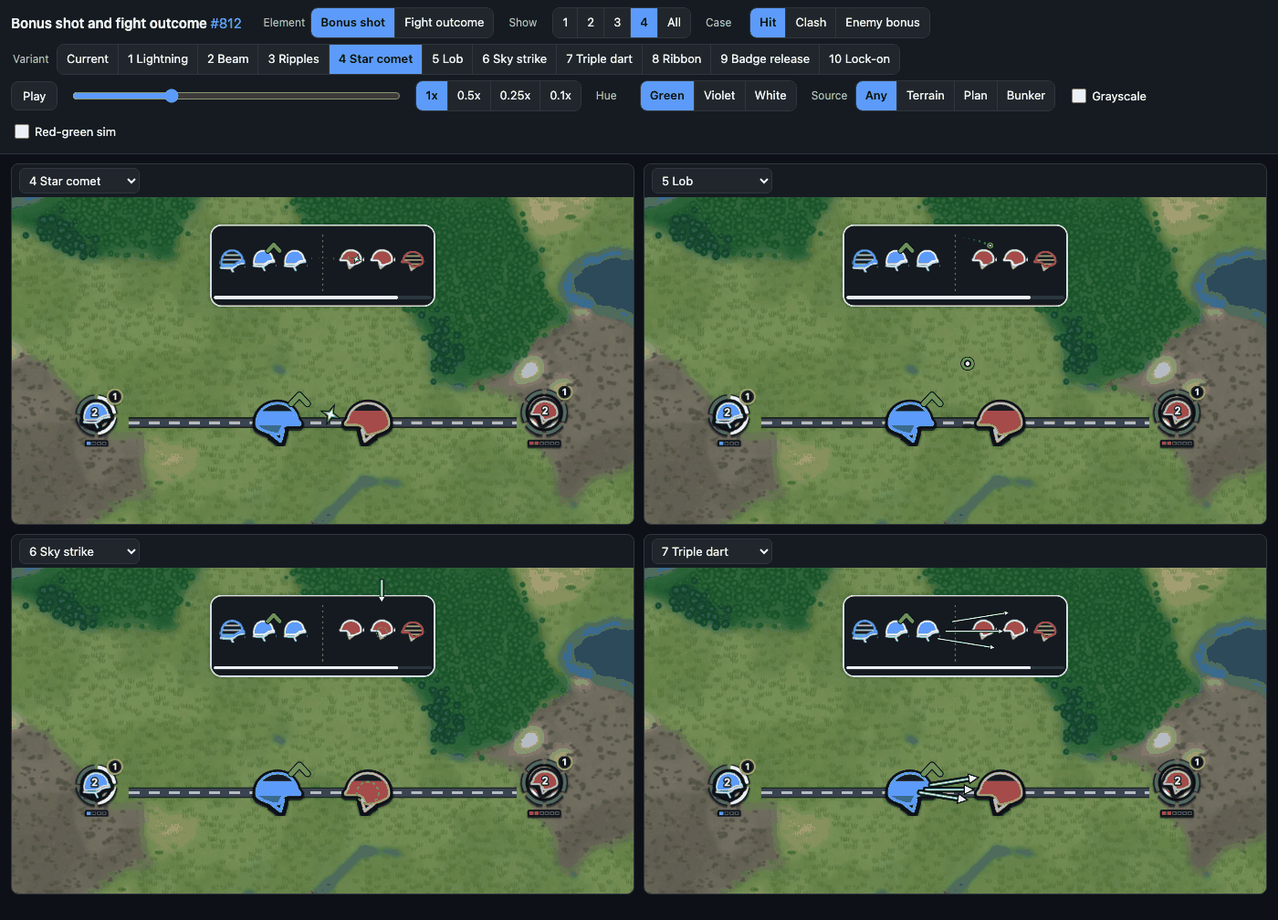
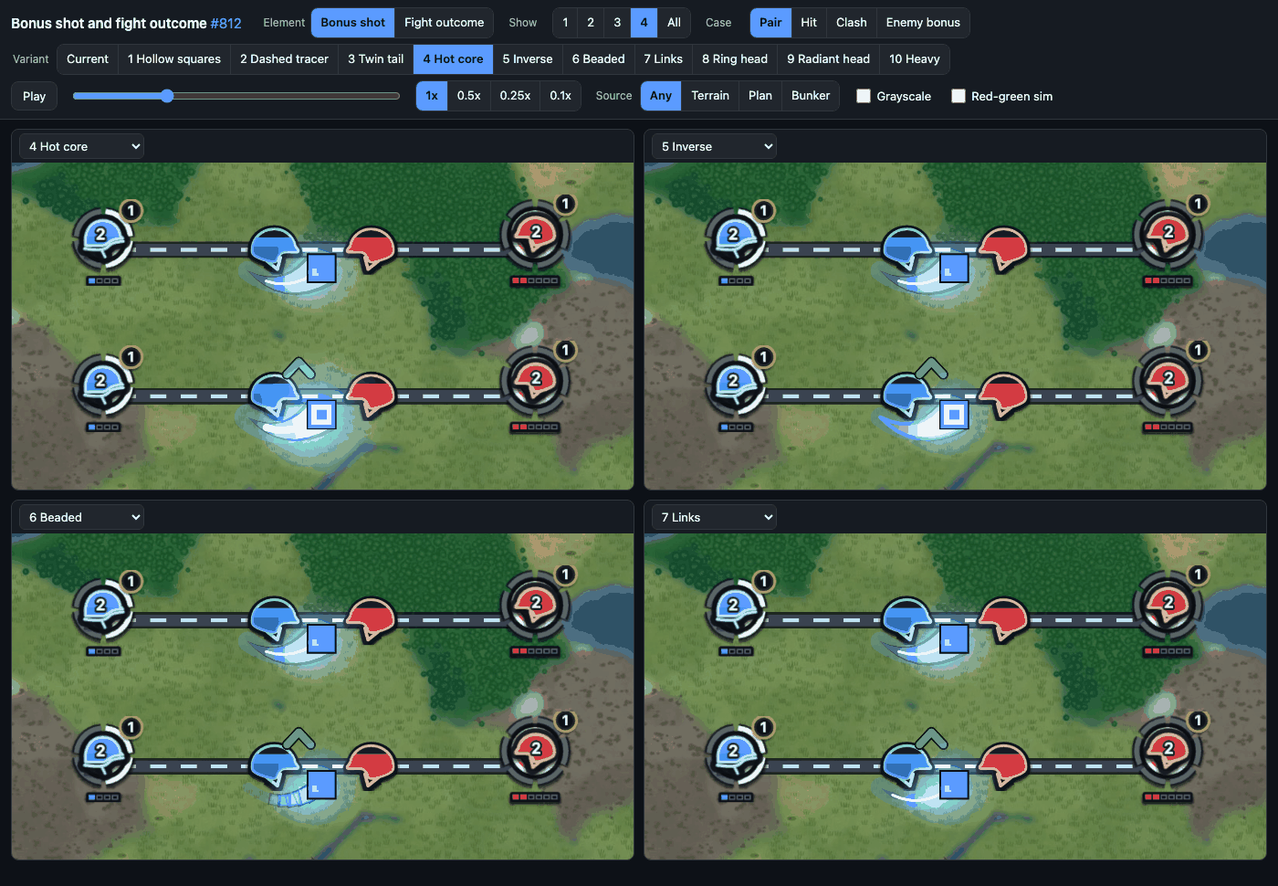
docs(docs): bonus shot round 2, tracer family variants, no arena animation (#812)

diff --git a/docs/design/mockups/fight-bonus-and-outcome.html b/docs/design/mockups/fight-bonus-and-outcome.html
@@ -62,7 +62,6 @@ canvas{display:block;width:100%;height:auto;background:#000}
     <button id="play" aria-pressed="true">Pause</button>
     <input type="range" id="scrub" min="0" max="1000" value="0" aria-label="Time">
     <div class="seg" id="spd"></div>
-    <fieldset id="f-hue"><legend>Hue</legend><div class="seg" id="hue"></div></fieldset>
     <fieldset id="f-src"><legend>Source</legend><div class="seg" id="src"></div></fieldset>
     <label class="tog"><input type="checkbox" id="gray">Grayscale</label>
     <label class="tog"><input type="checkbox" id="rg">Red-green sim</label>
@@ -125,150 +124,178 @@ function chips(c,y,state,{pop=null}={}){for(const side of ['own','enemy'])state[
 const BGCACHE={};
 function drawBg(c,name){const im=IMG[name];c.drawImage(im,0,40,W,H,0,0,W,H);c.fillStyle='rgba(13,17,23,.18)';c.fillRect(0,0,W,H);}
 function popText(c,s,x,y,th,col){if(th<0||th>1000)return;const k=th/1000;text(c,s,x,y-8-k*14,18,col,1-seg(k,.55,1));}
-function nodeFigure(c,side,x,y,k=1,a=1){return spr(c,side==='own'?'helmetOwn':'helmetEnemy',x,y,k*.78,a);}
+function nodeFigure(c,side,x,y,k=1,a=1,base=.78){return spr(c,side==='own'?'helmetOwn':'helmetEnemy',x,y,k*base,a);}
 
 /* ============================================================
-   ELEMENT 1: the bonus shot
+   ELEMENT 1: the bonus shot (round 2, map only: the arena has no bonus animation)
+   Everything below follows the client: render/shotLayout.ts (path, tail, timing), render/shotView.ts (tail, glow,
+   head, sparks, afterglow), render/fightImpact.ts (wind-up, hit burst). 1 world unit = U logical px.
    ============================================================ */
-const T={fire:700,flight:550,hit:1250,loop:3600};
-const HUES={green:UP,violet:'#b58cff',white:'#f0f6fc'};
+const U=1.8,KK=1.18,ROUND=2000,AT=.3,AFTER=.25;
+const T={fire:700,hit:700+AT*ROUND,loop:3600};
 const SIDE_COL={own:YOU,enemy:ENEMY};
-/* current look, reimplemented from render/shotView.ts (ui-style 9.9): a real shot is a curved tapering tail with a square head */
-function ordinary(c,P,o={}){
-  const col=o.col||SIDE_COL[P.side],S=P.S,dx=P.bx-P.ax,dy=P.by-P.ay,L=Math.hypot(dx,dy)||1,ux=dx/L,uy=dy/L;
-  const a=[P.ax-ux*24*S,P.ay-uy*24*S],b=[P.bx,P.by],bend=(o.bend??16)*S,f=P.f;if(f<=0)return;
-  const n=8,t0=Math.max(0,f-.55);
-  for(let i=0;i<n;i++){const p0=bez(a,b,bend,lerp(t0,f,i/n)),p1=bez(a,b,bend,lerp(t0,f,(i+1)/n)),al=(i+1)/n;line(c,[p0,p1],(5+9*al)*S,BG,al*.9,'butt');}
-  for(let i=0;i<n;i++){const p0=bez(a,b,bend,lerp(t0,f,i/n)),p1=bez(a,b,bend,lerp(t0,f,(i+1)/n)),al=(i+1)/n;line(c,[p0,p1],(2.4+5*al)*S,col,al*.85,'butt');line(c,[p0,p1],2*S,PAPER,al*.8,'butt');}
-  const h=bez(a,b,bend,f),h2=bez(a,b,bend,Math.max(0,f-.03));const ang=Math.atan2(h[1]-h2[1],h[0]-h2[0]);
-  c.save();c.translate(h[0],h[1]);c.rotate(ang);c.fillStyle=col;c.strokeStyle=BG;c.lineWidth=3*S;c.beginPath();c.rect(-5.5*S,-5.5*S,11*S,11*S);c.stroke();c.fill();c.fillStyle=PAPER;c.fillRect(-2*S,-2*S,4*S,4*S);c.restore();
-  if(f<1)for(let i=0;i<3;i++){const q=bez(a,b,bend,Math.max(0,f-.07*(i+1)));fillC(c,q[0]+(rnd(i+P.seed)-.5)*8*S,q[1]+(rnd(i+9+P.seed)-.5)*8*S,1.8*S,PAPER,.8-i*.2);}
+const hex=h=>[(h>>16)&255,(h>>8)&255,h&255];
+const HX={own:0x5b9bff,enemy:0xe5484d};
+function mixw(h,a){const[r,g,b]=hex(h);return[Math.round(r+(255-r)*a),Math.round(g+(255-g)*a),Math.round(b+(255-b)*a)];}
+const rgba=(rgb,a)=>`rgba(${rgb[0]},${rgb[1]},${rgb[2]},${a})`;
+const sideRgb=s=>hex(HX[s]);
+const pt=(x,y)=>({x,y});
+const add=(p,d,k)=>pt(p.x+d.x*k,p.y+d.y*k);
+function mkShot(from,to,side,{bonus=false,cancel=false}={}){
+  const gap=Math.hypot(to.x-from.x,to.y-from.y)||1,dir=pt((to.x-from.x)/gap,(to.y-from.y)/gap);
+  const reach=Math.min(14*U,.3*gap),a=add(from,dir,reach);
+  const b=cancel?pt((from.x+to.x)/2,(from.y+to.y)/2):add(to,dir,-(reach+1*U));
+  const chord=Math.hypot(b.x-a.x,b.y-a.y),extra=Math.max(0,46*KK*U-chord),p0=add(a,dir,-extra),length=chord+extra;
+  const normal=pt(-dir.y,dir.x),sag=Math.max(.3*length,7*U),mid=pt((p0.x+b.x)/2,(p0.y+b.y)/2),ctrl=add(mid,normal,2*sag);
+  return{side,bonus,cancel,a,b,p0,ctrl,dir,normal,length,start:length>0?extra/length:0,at:cancel?.15:AT,from,to};
 }
-function ordinaryHit(c,P){const th=P.th;if(th<0||th>900)return;const k=th/900,S=P.S,col=SIDE_COL[P.side==='own'?'enemy':'own'];
-  ringC(c,P.bx,P.by,lerp(6,24,ease(k))*S,3*S,PAPER,1-k);for(let i=0;i<5;i++){const an=-P.dir+(i-2)*.5,d=lerp(4,22,k)*S;c.save();c.globalAlpha=1-k;c.fillStyle=PAPER;c.fillRect(P.bx+Math.cos(an)*d-2*S,P.by+Math.sin(an)*d-2*S,4*S,4*S);c.restore();}}
-function cancelFx(c,P){const th=P.th;if(th<0||th>800)return;const k=th/800,S=P.S;ringC(c,P.bx,P.by,lerp(4,22,ease(k))*S,3*S,PAPER,1-k);line(c,[[P.bx-7*S,P.by-7*S],[P.bx+7*S,P.by+7*S]],3*S,PAPER,1-k);line(c,[[P.bx+7*S,P.by-7*S],[P.bx-7*S,P.by+7*S]],3*S,PAPER,1-k);
-  for(let i=0;i<6;i++){const an=i*TAU/6+.3,d=lerp(8,26,k)*S;line(c,[[P.bx+Math.cos(an)*d*.6,P.by+Math.sin(an)*d*.6],[P.bx+Math.cos(an)*d,P.by+Math.sin(an)*d]],2*S,i%2?YOU:ENEMY,1-k);}}
-function ringHit(c,P,{max=26,dash=false,w=3,col=null,n=0}={}){const th=P.th;if(th<0||th>900)return;const k=th/900,S=P.S,cc=col||P.col;
-  c.save();if(dash)c.setLineDash([5*S,4*S]);ringC(c,P.bx,P.by,lerp(6,max,ease(k))*S,(w+2)*S,BG,(1-k)*.9);ringC(c,P.bx,P.by,lerp(6,max,ease(k))*S,w*S,cc,1-k);c.restore();
-  for(let i=0;i<n;i++){const an=i*TAU/n+.4,d=lerp(5,max*.9,k)*S;star4(c,P.bx+Math.cos(an)*d,P.by+Math.sin(an)*d,3.4*S,an,cc,1-k);}
-  if(th<160)fillC(c,P.bx,P.by,lerp(16,6,th/160)*S,PAPER,.8*(1-th/160));}
-function pathPts(P,n=12,bend=0,f=1,from=0){const a=[P.ax,P.ay],b=[P.bx,P.by],o=[];for(let i=0;i<=n;i++)o.push(bez(a,b,bend,lerp(from,f,i/n)));return o;}
-const V=[];
-V.push({id:'cur',name:'Current',draw(c,P){ // the green chevron is the projectile (what the owner wants gone)
-  const S=P.S,a=[P.ax-P.ux*20*S,P.ay-P.uy*20*S],b=[P.bx,P.by],f=P.f;if(f<=0)return;
-  const tail=[];for(let i=0;i<=6;i++)tail.push(bez(a,b,12*S,Math.max(0,f-.5)+(f-Math.max(0,f-.5))*i/6));
-  line(c,tail.map(p=>[p[0],p[1]-2*S]),1.6*S,SIDE_COL[P.side],.6);line(c,tail.map(p=>[p[0],p[1]+2*S]),1.6*S,SIDE_COL[P.side],.6);
-  for(let i=3;i>=1;i--){const q=bez(a,b,12*S,Math.max(0,f-.07*i));chevron(c,q[0],q[1],(15-i*2.4)*S,{a:.75-i*.15});}
-  const h=bez(a,b,12*S,f);chevron(c,h[0],h[1],17*S);},
-  hit(c,P){ringHit(c,P,{dash:true,col:UP,n:5,max:24});}});
-V.push({id:'bolt',name:'Lightning',draw(c,P){
-  const f=P.f;if(f<=0)return;const S=P.S,end=Math.min(1,f*1.5),k=Math.floor(P.tf/70),pts=[[P.ax,P.ay]];const N=7;
-  for(let i=1;i<=N;i++){const t=end*i/N,p=bez([P.ax,P.ay],[P.bx,P.by],0,t),off=i===N?0:(rnd(k*13+i)-.5)*30*S;pts.push([p[0]-P.uy*off,p[1]+P.ux*off]);}
-  const a=P.th>0?1-seg(P.th,0,300):1;line(c,pts,16*S,P.col,.16*a);glow(c,pts,S,P.col,PAPER,5.4*S);c.save();c.globalAlpha*=a;c.restore();},
-  hit(c,P){ringHit(c,P,{max:20,n:6,w:2.6});}});
-V.push({id:'beam',name:'Beam',draw(c,P){
-  const f=P.f;if(f<=0)return;const S=P.S,ramp=seg(f,0,.3),fade=P.th>0?1-seg(P.th,0,350):1,w=lerp(1.5,9,ease(ramp))*S*(fade);if(fade<=0)return;
-  const e=[P.ax+(P.bx-P.ax)*Math.min(1,f*2.2),P.ay+(P.by-P.ay)*Math.min(1,f*2.2)];
-  glow(c,[[P.ax,P.ay],e],S,P.col,PAPER,w);fillC(c,P.ax,P.ay,w*.9+2,PAPER,fade);},
-  hit(c,P){ringHit(c,P,{max:24,w:3});}});
-V.push({id:'ripple',name:'Ripples',draw(c,P){
-  const S=P.S;for(let k=0;k<3;k++){const p=P.f*1.25-k*.2;if(p<=0||p>=1.02)continue;const x=lerp(P.ax,P.bx,Math.min(1,p)),y=lerp(P.ay,P.by,Math.min(1,p)),r=(9+k*3+p*8)*S,ang=Math.atan2(P.uy,P.ux),al=1-seg(p,.7,1.02);
-    for(const [w,cc] of [[7*S,BG],[3.6*S,P.col]]){c.save();c.globalAlpha=al;c.strokeStyle=cc;c.lineWidth=w;c.lineCap='round';c.beginPath();c.arc(x-P.ux*r*.55,y-P.uy*r*.55,r,ang-1,ang+1);c.stroke();c.restore();}}},
-  hit(c,P){ringHit(c,P,{max:30,w:2.4});if(P.th>120)ringHit(c,{...P,th:P.th-120},{max:22,w:2});}});
-V.push({id:'star',name:'Star comet',draw(c,P){
-  const S=P.S,f=P.f;if(f<=0)return;const a=[P.ax-P.ux*16*S,P.ay-P.uy*16*S],b=[P.bx,P.by];
-  for(let i=6;i>=1;i--){const t=Math.max(0,f-i*.06),q=bez(a,b,-14*S,t);star4(c,q[0],q[1],(7-i*.8)*S,P.tf/200+i,P.col,.85-i*.11*(1+(Math.floor(P.tf/90+i)%2)*.3));}
-  const h=bez(a,b,-14*S,f);star4(c,h[0],h[1],15*S,P.tf/180,BG,1,.36);star4(c,h[0],h[1],11*S,P.tf/180,P.col,1,.34);star4(c,h[0],h[1],6*S,P.tf/180,PAPER,1,.4);},
-  hit(c,P){ringHit(c,P,{max:26,n:8,w:2.2});}});
-V.push({id:'lob',name:'Lob',draw(c,P){
-  const S=P.S,f=P.f;if(f<=0)return;const L=Math.hypot(P.bx-P.ax,P.by-P.ay),Hh=S<1?.2*L:.55*L+14*S;
-  const gx=lerp(P.ax,P.bx,f),gy=lerp(P.ay,P.by,f),h=4*Hh*f*(1-f);
-  c.save();c.globalAlpha=.4;c.fillStyle='#000';c.beginPath();c.ellipse(gx,gy+8*S,(9-h*.03)*S,(3.4)*S,0,0,TAU);c.fill();c.restore();
-  for(let i=1;i<=5;i++){const ff=Math.max(0,f-i*.045),hh=4*Hh*ff*(1-ff);fillC(c,lerp(P.ax,P.bx,ff),lerp(P.ay,P.by,ff)-hh,(3.4-i*.4)*S,P.col,.7-i*.1);}
-  const x=gx,y=gy-h;fillC(c,x,y,9*S,BG);ringC(c,x,y,6.4*S,3.2*S,P.col);fillC(c,x,y,2.6*S,PAPER);},
-  hit(c,P){const th=P.th;if(th<0||th>900)return;const k=th/900,S=P.S;c.save();c.globalAlpha=1-k;c.strokeStyle=BG;c.lineWidth=5*S;c.beginPath();c.ellipse(P.bx,P.by+8*S,lerp(6,34,ease(k))*S,lerp(2,11,ease(k))*S,0,0,TAU);c.stroke();c.strokeStyle=P.col;c.lineWidth=2.6*S;c.stroke();c.restore();ringHit(c,{...P,by:P.by},{max:14,w:2,n:4});}});
-V.push({id:'sky',name:'Sky strike',draw(c,P){
-  const S=P.S,f=P.f,tele=ease(seg(f,0,.6));if(f<=0)return;
-  c.save();c.setLineDash([4*S,4*S]);ringC(c,P.bx,P.by+4*S,lerp(26,14,tele)*S,2.4*S,P.col,.5+.5*tele);c.restore();
-  if(f>.55){const k=seg(f,.55,1),y=lerp(P.by-(S<1?60:170)*S*(S<1?2:1),P.by,k*k);line(c,[[P.bx,y-46*S],[P.bx,y]],7*S+5*S,BG,.9);line(c,[[P.bx,y-46*S],[P.bx,y]],7*S,P.col);line(c,[[P.bx,y-46*S],[P.bx,y]],2.6*S,PAPER);
-    c.save();c.beginPath();c.moveTo(P.bx-7*S,y-4*S);c.lineTo(P.bx,y+8*S);c.lineTo(P.bx+7*S,y-4*S);c.closePath();c.fillStyle=PAPER;c.strokeStyle=BG;c.lineWidth=3*S;c.stroke();c.fill();c.restore();}},
-  hit(c,P){const th=P.th;if(th<0||th>600)return;const k=th/600,S=P.S;const w=lerp(14,2,k)*S,top=P.by-(S<1?60:200)*S*(S<1?2:1);line(c,[[P.bx,top],[P.bx,P.by]],w+4*S,BG,(1-k)*.8,'butt');line(c,[[P.bx,top],[P.bx,P.by]],w,P.col,1-k,'butt');line(c,[[P.bx,top],[P.bx,P.by]],w*.4,PAPER,1-k,'butt');ringHit(c,P,{max:26,w:3});}});
-V.push({id:'darts',name:'Triple dart',draw(c,P){
-  const S=P.S;for(let k=-1;k<=1;k++){const f=clamp(P.f*1.2-(k+1)*.06);if(f<=0)continue;const ang=Math.atan2(P.uy,P.ux)+k*.16,L=Math.hypot(P.bx-P.ax,P.by-P.ay)*1.02,x0=P.ax-P.ux*10*S,y0=P.ay-P.uy*10*S;
-    const hx=x0+Math.cos(ang)*L*f,hy=y0+Math.sin(ang)*L*f,tx=x0+Math.cos(ang)*L*Math.max(0,f-.45),ty=y0+Math.sin(ang)*L*Math.max(0,f-.45);
-    glow(c,[[tx,ty],[hx,hy]],S,P.col,PAPER,3*S);c.save();c.translate(hx,hy);c.rotate(ang);c.beginPath();c.moveTo(7*S,0);c.lineTo(-3*S,-5*S);c.lineTo(-3*S,5*S);c.closePath();c.fillStyle=PAPER;c.strokeStyle=BG;c.lineWidth=3*S;c.stroke();c.fill();c.restore();}},
-  hit(c,P){ringHit(c,P,{max:20,n:3,w:2.2});}});
-V.push({id:'ribbon',name:'Ribbon',draw(c,P){
-  const S=P.S,f=P.f;if(f<=0)return;const fade=P.th>0?1-seg(P.th,0,350):1;const a=[P.ax-P.ux*10*S,P.ay-P.uy*10*S],f0=Math.max(0,f*1.05-.55);
-  const pts=[[lerp(a[0],P.bx,f0),lerp(a[1],P.by,f0)],[lerp(a[0],P.bx,Math.min(1,f)),lerp(a[1],P.by,Math.min(1,f))]];
-  line(c,pts,15*S+5,BG,.92*fade,'butt');line(c,pts,15*S,P.col,fade,'butt');c.save();c.setLineDash([5*S,6*S]);c.lineDashOffset=-P.tf/22;line(c,pts,5*S,PAPER,fade,'butt');c.restore();},
-  hit(c,P){ringHit(c,P,{max:24,w:4});}});
-V.push({id:'release',name:'Badge release',cue:true,draw(c,P){ordinary(c,P,{col:P.col,bend:10});},
-  hit(c,P){ringHit(c,P,{max:26,w:3,n:0});}});
-V.push({id:'lock',name:'Lock-on',draw(c,P){
-  const S=P.S,f=P.f;if(f<=0)return;const k=ease(seg(f,0,.75)),r=lerp(36,15,k)*S,rot=(1-k)*.9,flash=P.f>.78;
-  for(const [w,cc] of [[5.4*S,BG],[2.6*S,flash?PAPER:P.col]])for(let i=0;i<4;i++){const an=rot+i*Math.PI/2+Math.PI/4;c.save();c.strokeStyle=cc;c.lineWidth=w;c.lineCap='round';c.lineJoin='round';c.beginPath();const cx=P.bx+Math.cos(an)*r,cy=P.by+Math.sin(an)*r;c.moveTo(cx-Math.cos(an+Math.PI/2)*7*S,cy-Math.sin(an+Math.PI/2)*7*S);c.lineTo(cx,cy);c.lineTo(cx+Math.cos(an+Math.PI/2)*7*S,cy+Math.sin(an+Math.PI/2)*7*S);c.stroke();c.restore();}
-  if(flash&&P.th<0)glow(c,[[P.ax,P.ay],[P.bx,P.by]],S,P.col,PAPER,2.6*S);},
-  hit(c,P){ringHit(c,P,{max:26,w:3,n:4});}});
+function arcAt(s,t){const w=1-t;return pt(w*w*s.p0.x+2*w*t*s.ctrl.x+t*t*s.b.x,w*w*s.p0.y+2*w*t*s.ctrl.y+t*t*s.b.y);}
+function arcTan(s,t){const dx=2*(1-t)*(s.ctrl.x-s.p0.x)+2*t*(s.b.x-s.ctrl.x),dy=2*(1-t)*(s.ctrl.y-s.p0.y)+2*t*(s.b.y-s.ctrl.y),l=Math.hypot(dx,dy)||1;return pt(dx/l,dy/l);}
+function phaseOf(s,age){if(age<0)return null;const sh=age/ROUND;if(sh<s.at){const fl=sh/s.at;return{kind:'flight',flown:fl,s:s.start+(1-s.start)*fl};}const fd=(sh-s.at)/AFTER;return fd<1?{kind:'fade',fade:fd}:null;}
+function tailGeom(s,t,{pad=0,share=.55,widthK=1}={}){const from=Math.max(0,t-share*KK),axis=[],left=[],right=[],nor=[];
+  for(let j=0;j<=8;j++){const at=from+(t-from)*j/8,p=arcAt(s,at),tg=arcTan(s,at),half=((13*KK*widthK+pad)*U*(j/8))/2;axis.push(p);nor.push(pt(-tg.y,tg.x));left.push(pt(p.x-tg.y*half,p.y+tg.x*half));right.push(pt(p.x+tg.y*half,p.y-tg.x*half));}
+  return{axis,left,right,nor};}
+function polyPath(c,pts){c.beginPath();pts.forEach((p,i)=>i?c.lineTo(p.x,p.y):c.moveTo(p.x,p.y));}
+function strokePts(c,pts,w,style,a=1,cap='round'){c.save();c.globalAlpha*=a;c.lineCap=cap;c.lineJoin='round';c.strokeStyle=style;c.lineWidth=w;polyPath(c,pts);c.stroke();c.restore();}
+function glowSpot(c,x,y,d,rgb,a){if(a<=0)return;c.save();c.globalCompositeOperation='lighter';const g=c.createRadialGradient(x,y,0,x,y,d/2);g.addColorStop(0,rgba(rgb,a));g.addColorStop(1,rgba(rgb,0));c.fillStyle=g;c.beginPath();c.arc(x,y,d/2,0,TAU);c.fill();c.restore();}
+function sq(c,x,y,side,ang,fill,{outline=BG,ow=3.2,a=1}={}){c.save();c.globalAlpha*=a;c.translate(x,y);c.rotate(ang);c.beginPath();c.rect(-side/2,-side/2,side,side);if(outline){c.lineJoin='miter';c.strokeStyle=outline;c.lineWidth=ow;c.stroke();}if(fill){c.fillStyle=fill;c.fill();}c.restore();}
+function fillPoly(c,pts,style,a=1){c.save();c.globalAlpha*=a;c.fillStyle=style;polyPath(c,pts);c.closePath();c.fill();c.restore();}
 
-/* wind-up of the current game: a ring contracts on the shooter; the badge is the bonus link in every variant */
-function windup(c,P,v){const tw=P.t-(T.fire-380);if(tw<0||tw>380)return;const k=tw/380;ringC(c,P.ax,P.ay,lerp(46,24,ease(k))*P.S,2.4*P.S,P.col,.2+.7*k);}
-function badge(c,x,y,S,t,spend=false){let k=1;const tf=t-T.fire;if(tf>-100&&tf<420)k=1+.6*Math.sin(clamp((tf+100)/520)*Math.PI);
-  const sz=15*S*k;if(tf>0&&tf<260){ringC(c,x,y,(9+tf/260*16)*S,2.4*S,UP,1-tf/260);}
-  chevron(c,x,y,sz,{hollow:spend&&tf>150&&tf<900});}
-
-function bonusFrame(c,st,v,t){
-  const sc=st.sc,hue=HUES[st.hue],src=st.src;
-  drawBg(c,src==='terrain'?'bgMountain':'bgPlains');
-  road(c,150,650,290);
-  spr(c,'cityOwn',112,290-6,1);spr(c,'cityEnemy',688,290-6,1);
-  const own=[342,290],en=[458,290];
-  const shooter=sc==='enemy'?'enemy':'own',target=shooter==='own'?'enemy':'own';
-  const A=shooter==='own'?own:en,B=target==='own'?own:en;
-  const clash=sc==='clash';
-  const base={t,S:1,col:hue,seed:7,ax:A[0],ay:A[1]-4,bx:B[0],by:B[1]-4};
-  const tf=t-T.fire,th=t-T.hit,f=clamp(tf/T.flight);
-  const dx=base.bx-base.ax,dy=base.by-base.ay,L=Math.hypot(dx,dy);
-  const P={...base,f,tf,th,ux:dx/L,uy:dy/L,dir:Math.atan2(dy,dx),side:shooter,cancel:false};
-  // figures with a swell on the one that was hit
-  const popK=(who)=>(!clash&&who===target&&th>0&&th<250)?1+.18*Math.sin(th/250*Math.PI):1;
-  nodeFigure(c,'own',own[0],own[1],popK('own'));nodeFigure(c,'enemy',en[0],en[1],popK('enemy'));
-  // badges: static chevron at the top right of the shooter's helmet
-  const bx=(who)=>who==='own'?own[0]+28:en[0]+28;
-  badge(c,bx(shooter),290-30,1,t,v.cue);
-  if(src!=='any'){disc(c,bx(shooter)+21,290-30,9,BG,PAPER,1.6);glyph(c,src,bx(shooter)+21,290-30,.8,PAPER);}
-  windup(c,P,v);
-  if(clash){ // both shoot: a bonus shot against a real one, they meet half way
-    const mid=[(own[0]+en[0])/2,290-4];
-    const Pb={...P,bx:mid[0],by:mid[1],cancel:true};
-    const Po={...P,side:target,ax:B[0],ay:B[1]-4,bx:mid[0],by:mid[1],ux:-P.ux,uy:-P.uy,dir:P.dir+Math.PI,seed:3};
-    ordinary(c,Po);v.draw(c,Pb);if(th>0)cancelFx(c,Pb);
-    drawBonusArena(c,st,v,t,'clash');return;
+/* the tracer: o = {tail,head,echo,...}; the base look (tail 'solid', head 'square') is exactly the ordinary shot */
+function tracer(c,s,age,seed,o={}){
+  const ph=phaseOf(s,age);if(!ph)return;
+  const base=sideRgb(s.side),enemy=s.side==='enemy',tailK=o.tailK||1,shareK=o.shareK||1;
+  const dashPath=o.bonusPath??s.bonus;
+  if(ph.kind==='fade'){ // the path stays and fades as the arc it was: a thin line, dashed for a bonus shot
+    const pts=[];for(let i=0;i<=14;i++)pts.push(arcAt(s,i/14));
+    c.save();if(dashPath)c.setLineDash([2*U,5*U]);strokePts(c,pts,(dashPath?1.6:2.2)*U,rgba(base,1),.55*(1-ph.fade),'round');c.restore();
+    if(s.cancel)for(let j=0;j<3;j++){const at=arcAt(s,1-.13*j);sq(c,at.x+s.normal.x*22*ph.fade*(j-1),at.y+s.normal.y*22*ph.fade*(j-1),5.4*U*(1-ph.fade)*.8,0,rgba(base,1),{outline:null,a:1-ph.fade});}
+    return;}
+  const t=ph.s,share=(o.share??.55)*shareK,tail=tailGeom(s,t,{share,widthK:tailK}),head=tail.axis[8];
+  const style=o.tail||'solid';
+  if(style!=='edges'&&style!=='beads'){
+    // glow along the path
+    strokePts(c,tail.axis,8*KK*U*(o.glowK||1),rgba(base,1),.22*(o.glowA||1));
   }
-  v.draw(c,P);v.hit(c,P);
-  popText(c,'−1',B[0],B[1]-44,th,PAPER);
-  drawBonusArena(c,st,v,t,sc);
+  const tailFill=(t_,hot)=>rgba(mixw(HX[s.side],hot*t_),.95*(.25+.75*t_));
+  if(style==='solid'||style==='dashed'||style==='hot'||style==='heavy'||style==='inverse'){
+    const under=tailGeom(s,t,{pad:4,share,widthK:tailK});fillPoly(c,[...under.left,...under.right.slice().reverse()],rgba(hex(0x0d1117),1),.5);
+    for(let j=0;j<8;j++){if(style==='dashed'&&j%2===1)continue;const tt=(j+1)/8,pts=[tail.left[j],tail.left[j+1],tail.right[j+1],tail.right[j]];
+      if(style==='inverse')fillPoly(c,pts,rgba([255,255,255],1),.95*(.25+.75*tt)*.9);
+      else fillPoly(c,pts,tailFill(tt,style==='hot'?.8:.35));}
+    if(style==='inverse'){strokePts(c,tail.left,2*U*.9,rgba(base,1),.95);strokePts(c,tail.right,2*U*.9,rgba(base,1),.95);}
+    else{const wCore=(style==='hot'?3.4:1.3)*U;c.save();if(style==='dashed')c.setLineDash([5*U,5*U]);strokePts(c,tail.axis.slice(2),wCore,enemy&&style!=='hot'?'#0d1117':'#fff',.95);c.restore();}
+  }
+  if(style==='edges'){ // the current bonus tail: two thin lines (+ a thin dark halo so they read)
+    for(const e of [tail.left,tail.right]){strokePts(c,e,1.5*U+3,'#0d1117',.5);strokePts(c,e,1.5*U,rgba(base,1),.9);}
+  }
+  if(style==='twin'){
+    const under=tailGeom(s,t,{pad:3,share,widthK:tailK});fillPoly(c,[...under.left,...under.right.slice().reverse()],rgba(hex(0x0d1117),1),.4);
+    for(const k of [-1,1]){const L=[],R=[];for(let j=0;j<=8;j++){const p=tail.axis[j],n=tail.nor[j],w=(13*KK*U*(j/8)),off=k*w*.46,hw=w*.17;L.push(pt(p.x+n.x*(off-hw),p.y+n.y*(off-hw)));R.push(pt(p.x+n.x*(off+hw),p.y+n.y*(off+hw)));}
+      for(let j=0;j<8;j++){const tt=(j+1)/8;fillPoly(c,[L[j],L[j+1],R[j+1],R[j]],tailFill(tt,.4));}
+      strokePts(c,L.map((p,i)=>pt((p.x+R[i].x)/2,(p.y+R[i].y)/2)).slice(2),1*U,'#fff',.9);}
+  }
+  if(style==='fork'){
+    const under=tailGeom(s,t,{pad:3,share,widthK:tailK*.8});fillPoly(c,[...under.left,...under.right.slice().reverse()],rgba(hex(0x0d1117),1),.35);
+    for(const k of [-1,1]){const L=[],R=[];for(let j=0;j<=8;j++){const p=tail.axis[j],n=tail.nor[j],w=13*KK*U*.55*(j/8),off=k*(1-j/8)*9*U,hw=w/2;L.push(pt(p.x+n.x*(off-hw),p.y+n.y*(off-hw)));R.push(pt(p.x+n.x*(off+hw),p.y+n.y*(off+hw)));}
+      for(let j=0;j<8;j++){const tt=(j+1)/8;fillPoly(c,[L[j],L[j+1],R[j+1],R[j]],tailFill(tt,.4));}
+      strokePts(c,L.map((p,i)=>pt((p.x+R[i].x)/2,(p.y+R[i].y)/2)).slice(2),1.1*U,'#fff',.9);}
+  }
+  if(style==='links'){
+    const N=24,from=Math.max(0,t-share*KK),L=[],R=[],A=[];
+    for(let j=0;j<=N;j++){const at=from+(t-from)*j/N,p=arcAt(s,at),tg=arcTan(s,at),k=j/N,w=13*KK*U*k*(.22+.78*Math.abs(Math.sin(k*Math.PI*3.5))),h=w/2;A.push(p);L.push(pt(p.x-tg.y*h,p.y+tg.x*h));R.push(pt(p.x+tg.y*h,p.y-tg.x*h));}
+    fillPoly(c,[...L.map(p=>pt(p.x,p.y)),...R.slice().reverse()].map(p=>pt(p.x,p.y)),rgba(hex(0x0d1117),1),.4);
+    for(let j=0;j<N;j++){const tt=(j+1)/N;fillPoly(c,[L[j],L[j+1],R[j+1],R[j]],tailFill(tt,.35));}
+    strokePts(c,A.slice(4),1.3*U,'#fff',.95);
+  }
+  if(style==='beads'){
+    strokePts(c,tail.axis,5*U,rgba(base,1),.14);
+    const sizes=[15,13.5,12,10.5,9],al=[.95,.8,.65,.5,.35];
+    for(let i=0;i<5;i++){const at=arcAt(s,Math.max(0,t-.07*KK*(i+1))),tg=arcTan(s,Math.max(0,t-.07*KK*(i+1)));sq(c,at.x,at.y,sizes[i]*.9,Math.atan2(tg.y,tg.x),rgba(base,1),{ow:2.4,a:al[i]});}
+  }
+  if(o.echo==='squares'){for(const [back,size,al] of [[.1,6.5,.5],[.2,5.5,.35],[.3,4.5,.2]]){const q=arcAt(s,Math.max(0,t-back)),tg=arcTan(s,Math.max(0,t-back));sq(c,q.x,q.y,size*1.9,Math.atan2(tg.y,tg.x),null,{outline:rgba(base,1),ow:1.8,a:al*1.6});}}
+  // the glow along the tail: three soft additive spots away from the head
+  for(let k=1;k<=3;k++){const at=arcAt(s,Math.max(0,t-k*.11*KK));glowSpot(c,at.x,at.y,39.2*KK*U*(1-.2*k)*(o.glowK||1),base,.4*(1-k/4));}
+  glowSpot(c,head.x,head.y,39.2*KK*U*(o.glowK||1),base,.5*(o.glowA||1));
+  // the head: the baked square (20 units), the owner colour with a light spot (the opponent's: a dark one)
+  const tg=arcTan(s,t),ang=0,H=(o.headK||1)*20*U*.62;
+  const hd=o.head||'square';
+  if(hd==='square'||hd==='rays'||hd==='tandem'||hd==='heavy'){
+    if(hd==='tandem'){const q=arcAt(s,Math.max(0,t-.09)),tq=arcTan(s,Math.max(0,t-.09));sq(c,q.x,q.y,H*.62,Math.atan2(tq.y,tq.x),rgba(base,1),{ow:2.6,a:.95});}
+    if(hd==='rays'){for(let i=0;i<4;i++){const an=ang+Math.PI/4+i*Math.PI/2,r0=H*.78,r1=H*.78+9*U*(.8+.2*Math.sin(age/80+i));strokePts(c,[pt(head.x+Math.cos(an)*r0,head.y+Math.sin(an)*r0),pt(head.x+Math.cos(an)*r1,head.y+Math.sin(an)*r1)],2.6*U*.8+2,'#0d1117',.9);strokePts(c,[pt(head.x+Math.cos(an)*r0,head.y+Math.sin(an)*r0),pt(head.x+Math.cos(an)*r1,head.y+Math.sin(an)*r1)],2.6*U*.8,'#fff',1);}}
+    sq(c,head.x,head.y,H,ang,rgba(base,1));sq(c,head.x,head.y,H*.34,ang,enemy?'#0d1117':'#fff',{outline:null,a:.95});}
+  else if(hd==='hollow'){sq(c,head.x,head.y,H,ang,'#0d1117',{outline:null});sq(c,head.x,head.y,H-3,ang,null,{outline:rgba(base,1),ow:3.4});sq(c,head.x,head.y,H*.26,ang,'#fff',{outline:null});}
+  else if(hd==='whitesq'){sq(c,head.x,head.y,H,ang,'#fff',{outline:'#0d1117'});sq(c,head.x,head.y,H-2,ang,null,{outline:rgba(base,1),ow:3});}
+  else if(hd==='ring'){fillC(c,head.x,head.y,H*.72,'#0d1117');ringC(c,head.x,head.y,H*.5,3.6,`rgb(${base[0]},${base[1]},${base[2]})`);fillC(c,head.x,head.y,H*.14,'#fff');}
+  // the sparks: five little squares left along the way, alternately the colour and white
+  for(let j=0;j<5;j++){const born=(j+1)/6,ageSh=(ph.flown-born)*s.at;if(ageSh<0||ageSh>=.16)continue;const life=ageSh/.16,q=arcAt(s,s.start+(1-s.start)*born),dr=(rnd(j+seed*3)-.5)*9*life*U;
+    sq(c,q.x+s.normal.x*dr,q.y+s.normal.y*dr,4.8*(1-life)*U,0,j%2?'#fff':rgba(base,1),{outline:null,a:1-life});}
 }
-function drawBonusArena(c,st,v,t,sc){
-  const y=88,hue=HUES[st.hue];arenaBase(c,y,null,{bar:1-seg(t,T.fire-100,T.loop-400)*.9});
-  const state={own:['full','full','empty'],enemy:['full','full','empty']};
-  const shooter=sc==='enemy'?'enemy':'own',target=shooter==='own'?'enemy':'own';
-  const hitDone=t>T.hit&&sc!=='clash';
-  if(hitDone)state[target][1]='dead';
-  const pop=(hitDone&&t-T.hit<250)?{side:target,i:1,k:1+.2*Math.sin((t-T.hit)/250*Math.PI)}:null;
-  chips(c,y-6,state,{pop});
-  // the chevron badge sits at the top right of the bonus chip; it flashes when the shot goes
-  const ci=1,cx=CHIPX[shooter](ci);
-  const tf=t-T.fire;let k=1;if(tf>-100&&tf<420)k=1+.6*Math.sin(clamp((tf+100)/520)*Math.PI);
-  chevron(c,cx+13,y-6-17,11*k,{hollow:v.cue&&tf>150&&tf<900});
-  if(st.src!=='any'){disc(c,cx+13,y-6+18,7,BG,PAPER,1.4);glyph(c,st.src,cx+13,y-6+18,.6,PAPER);}
-  const S=.5,f=clamp(tf/(T.flight*.8)),th=t-(T.fire+T.flight*.8);
-  const a=[cx,y-6],tx=CHIPX[target](1);
-  let b=[tx,y-6];if(sc==='clash'){b=[400,y-6];}
-  const dx=b[0]-a[0],dy=b[1]-a[1],L=Math.hypot(dx,dy);
-  const P={t,S,col:hue,seed:5,ax:a[0],ay:a[1],bx:b[0],by:b[1],f,tf,th,ux:dx/L,uy:dy/L,dir:Math.atan2(dy,dx),side:shooter,cancel:sc==='clash'};
-  if(sc==='clash'){const oa=[CHIPX[target](0),y-6],Po={...P,side:target,ax:oa[0],ay:oa[1],ux:-P.ux,uy:-P.uy,dir:P.dir+Math.PI};ordinary(c,Po);}
-  v.draw(c,P);if(sc==='clash'){if(th>0)cancelFx(c,P);}else v.hit(c,P);
+/* the wind-up: a glow grows on the group and a ring closes in on it, 0.35 s before the tick (render/fightImpact.ts) */
+function wind(c,at,side,t){const w=clamp((t-(T.fire-.175*ROUND))/(.175*ROUND));if(w<=0||w>=1&&t>T.fire)return;const rgb=sideRgb(side);glowSpot(c,at.x,at.y,2*1.4*(9+9*w*1.6)*U,rgb,.55*w);ringC(c,at.x,at.y,(25-10*w)*U,2.2,`rgb(${rgb[0]},${rgb[1]},${rgb[2]})`,.7*w);}
+/* the hit burst (impactParticles, kill): ring, flash, sparks in a cone from the shooter, shards of a unit that died; bonus: dashed ring, paler flash */
+function hitFx(c,s,th,{spark='square',bonus=false,ringK=1,extra=null}={}){
+  const u=th/(.5*ROUND);if(u<0||u>=1)return;const to=s.to,from=s.from,ang=Math.atan2(to.y-from.y,to.x-from.x),shooter=sideRgb(s.side),victim=s.side==='own'?'enemy':'own',vrgb=sideRgb(victim),ez=p=>1-(1-p)*(1-p);
+  if(u<.5){const p=u/.5,r=(5+32.8*ez(p))*.55*U*ringK,col=mixw(HX[s.side],.5);c.save();if(bonus)c.setLineDash([6*U*.6,5*U*.6]);ringC(c,to.x,to.y,r,4.4,'#0d1117',(1-p)*.8);ringC(c,to.x,to.y,r,2.6,`rgb(${col[0]},${col[1]},${col[2]})`,1-p);c.restore();}
+  if(u<.3){const p=u/.3;glowSpot(c,to.x,to.y,2*(8+12.8)*1.3*U*(1-.4*p)*.6,[255,255,255],(bonus?.55:.8)*(1-p)*(1-p));}
+  const p=u/.8;if(p<1){for(let j=0;j<8;j++){const an=ang+(rnd(j+11)-.5)*2.6,d=ez(p)*50*(.6+.4*1.6)*(.55+.45*rnd(j+3))*U*.6,x=to.x+Math.cos(an)*d,y=to.y+Math.sin(an)*d,sz=(bonus?9.5:6.4)*U*.62*(1-p);
+    if(spark==='hollow')sq(c,x,y,sz*1.5,an,null,{outline:j%2?'#fff':`rgb(${shooter[0]},${shooter[1]},${shooter[2]})`,ow:1.8,a:1-p});
+    else sq(c,x,y,sz,an,j%2?'#fff':`rgb(${shooter[0]},${shooter[1]},${shooter[2]})`,{outline:null,a:1-p});}}
+  const q=u/.95;if(q<1)for(let j=0;j<5;j++){const an=ang+(rnd(j+31)-.5)*3.4,d=ez(q)*48*U*.6,x=to.x+Math.cos(an)*d,y=to.y+Math.sin(an)*d+q*q*36*U*.6;c.save();c.translate(x,y);c.rotate(q*6.6+j);c.globalAlpha=1-q;const im=IMG.chipR;c.drawImage(im,-im.width*SP*.2,-im.height*SP*.2,im.width*SP*.4,im.height*SP*.4);c.restore();}
+  if(extra)extra(c,s,u);
+}
+function cancelFx(c,s,th,bonusBy){const u=th/(.5*ROUND);if(u<0||u>=1)return;const m=s.b,ez=p=>1-(1-p)*(1-p);
+  if(u<.5){const p=u/.5;c.save();if(bonusBy)c.setLineDash([6*U*.6,5*U*.6]);ringC(c,m.x,m.y,(4+32.8*ez(p))*.55*U,2.6,'#fff',1-p);c.restore();
+    for(const [side,off] of [['own',0],['enemy',1]])for(let j=0;j<4;j++){const an=((j*2+off)*2*Math.PI)/8+.2,r0=(4+5*ez(p))*U*.6,r1=(10+22*1.6*ez(p))*U*.6,rgb=sideRgb(side);strokePts(c,[pt(m.x+Math.cos(an)*r0,m.y+Math.sin(an)*r0),pt(m.x+Math.cos(an)*r1,m.y+Math.sin(an)*r1)],2.4*U*.7,`rgb(${rgb[0]},${rgb[1]},${rgb[2]})`,1-p);}}
+  if(u<.3){const p=u/.3;glowSpot(c,m.x,m.y,2*(8+12.8)*1.3*U*.6,[255,255,255],.8*(1-p)*(1-p));}
+  if(u>.05&&u<.75){const a=.8*(1-u/.75);strokePts(c,[pt(m.x-7*U*.6,m.y-7*U*.6),pt(m.x+7*U*.6,m.y+7*U*.6)],2.6,'#fff',a);strokePts(c,[pt(m.x+7*U*.6,m.y-7*U*.6),pt(m.x-7*U*.6,m.y+7*U*.6)],2.6,'#fff',a);}}
+
+const V=[];
+V.push({id:'cur',name:'Current',o:{tail:'edges',head:'chevron',echo:'chevrons'},hit:{bonus:true,spark:'hollow'}});
+V.push({id:'hollow',name:'Hollow squares',o:{tail:'edges',head:'hollow',echo:'squares'},hit:{bonus:true,spark:'hollow'}});
+V.push({id:'dashed',name:'Dashed tracer',o:{tail:'dashed',head:'square'},hit:{bonus:true,spark:'square'}});
+V.push({id:'twin',name:'Twin tail',o:{tail:'twin',head:'tandem'},hit:{bonus:true,spark:'square'}});
+V.push({id:'hot',name:'Hot core',o:{tail:'hot',head:'whitesq',glowK:1.35,glowA:1.2},hit:{bonus:false,spark:'square',ringK:1.15}});
+V.push({id:'inverse',name:'Inverse',o:{tail:'inverse',head:'whitesq',bonusPath:true},hit:{bonus:true,spark:'square'}});
+V.push({id:'beads',name:'Beaded',o:{tail:'beads',head:'square',bonusPath:true},hit:{bonus:true,spark:'square'}});
+V.push({id:'links',name:'Links',o:{tail:'links',head:'square'},hit:{bonus:true,spark:'square'}});
+V.push({id:'ring',name:'Ring head',o:{tail:'solid',head:'ring',bonusPath:true},hit:{bonus:true,spark:'hollow'}});
+V.push({id:'rays',name:'Radiant head',o:{tail:'solid',head:'rays'},hit:{bonus:true,spark:'square'}});
+V.push({id:'heavy',name:'Heavy',o:{tail:'heavy',head:'square',tailK:1.5,shareK:.62,headK:1.4,glowK:1.25},hit:{bonus:false,spark:'square',ringK:1.25}});
+
+/* the current bonus look (#797): hollow tail with three trailing chevrons and a chevron head, drawn here as it is today */
+function curBonusExtras(c,s,age){const ph=phaseOf(s,age);if(!ph||ph.kind!=='flight')return;const t=ph.s,base=sideRgb(s.side),head=arcAt(s,t);
+  for(const [back,size,al] of [[.1,6.5,.5],[.2,5.5,.35],[.3,4.5,.2]]){const q=arcAt(s,Math.max(0,t-back));chevron(c,q.x,q.y,size*3*.62*U/1.8*1.4,{a:al*1.4,col:`rgb(${base[0]},${base[1]},${base[2]})`});}
+  chevron(c,head.x,head.y,30*.62*U/1.8*.9,{});}
+function shotDraw(c,s,age,seed,v){
+  if(v.id==='cur'){tracer(c,s,age,seed,{tail:'edges',head:'none',echo:'none'});curBonusExtras(c,s,age);return;}
+  tracer(c,s,age,seed,v.o);
+}
+function ordinaryShot(c,s,age,seed){tracer(c,s,age,seed,{tail:'solid',head:'square'});}
+
+function windBadge(c,x,y,t){let k=1;const tf=t-T.fire;if(tf>-100&&tf<420)k=1+.6*Math.sin(clamp((tf+100)/520)*Math.PI);if(tf>0&&tf<260)ringC(c,x,y,9+tf/260*16,2.4,UP,1-tf/260);chevron(c,x,y,13*k,{});}
+function lane(c,st,v,t,y,mode){ // mode: 'bonus' or 'ordinary' shot by `shooter`
+  const sc=st.sc,src=st.src,shooter=sc==='enemy'?'enemy':'own',target=shooter==='own'?'enemy':'own';
+  c.save();c.translate(400,y);c.scale(1.5,1.5);c.translate(-400,-y);
+  const own=pt(358.5,y),en=pt(441.5,y);road(c,200,600,y);spr(c,'cityOwn',215,y-6,1);spr(c,'cityEnemy',585,y-6,1);
+  const F=shooter==='own'?own:en,Tg=target==='own'?own:en;
+  const age=t-T.fire,th=t-T.hit;
+  const clash=sc==='clash'&&mode==='bonus';
+  const sA=mkShot(F,Tg,shooter,{bonus:mode==='bonus',cancel:clash});
+  const pop=(who)=>(!clash&&who===target&&th>0&&th<250)?1+.18*Math.sin(th/250*Math.PI):1;
+  nodeFigure(c,'own',own.x,own.y,pop('own'),1,.55);nodeFigure(c,'enemy',en.x,en.y,pop('enemy'),1,.55);
+  if(mode==='bonus'){const bx=(shooter==='own'?own.x:en.x)+21;windBadge(c,bx,y-24,t);if(src!=='any'){disc(c,bx+17,y-24,8,BG,PAPER,1.5);glyph(c,src,bx+17,y-24,.7,PAPER);}}
+  wind(c,shooter==='own'?own:en,shooter,t);
+  if(clash){const sB=mkShot(Tg,F,target,{cancel:true});tracer(c,sB,age,3,{tail:'solid',head:'square'});shotDraw(c,sA,age,7,v);cancelFx(c,sA,t-(T.fire+sA.at*ROUND),true);c.restore();return;}
+  if(mode==='bonus'){shotDraw(c,sA,age,7,v);hitFx(c,sA,th,{...v.hit,bonus:v.hit.bonus,extra:null});}
+  else{ordinaryShot(c,sA,age,7);hitFx(c,sA,th,{bonus:false,spark:'square'});}
+  popText(c,'−1',Tg.x,Tg.y-34,th,PAPER);
+  c.restore();
+}
+function bonusFrame(c,st,v,t){
+  drawBg(c,st.src==='terrain'?'bgMountain':'bgPlains');
+  if(st.sc==='pair'){lane(c,st,V[0],t,112,'ordinary');lane(c,st,v,t,300,'bonus');}
+  else lane(c,st,v,t,215,'bonus');
 }
 
 /* ============================================================
@@ -303,7 +330,7 @@ function outcomeFrame(c,st,v,t){
   const aa=s.winner===s.def?1-seg(t-O.end,0,450):1;
   if(aa>0&&(s.winner!==s.att||true))nodeFigure(c,s.att,ax,cy+8,1,aa*(s.winner===s.att&&s.captured&&t>flipT?.0:1));
   // the last round of the fight: a real shot lands on the defender
-  if(t<O.end+200){const tf=t-500,f=clamp(tf/550),P={t,S:1,seed:2,ax:attX,ay:cy,bx:cx,by:cy,f,tf,th:t-1050,ux:s.att==='enemy'?-1:1,uy:0,dir:s.att==='enemy'?Math.PI:0,side:s.att};ordinary(c,P);ordinaryHit(c,P);}
+  if(t<O.end+200){const sh=mkShot(pt(attX,cy),pt(cx,cy),s.att);ordinaryShot(c,sh,t-500,2);hitFx(c,sh,t-1100,{bonus:false,spark:'square'});}
   // arena of the live fight until it ends
   const py=160;
   if(t<O.end){const st2={own:Array.from({length:s.before[0]},(_,i)=>i<s.before[0]-1?'full':'empty'),enemy:Array.from({length:s.before[1]},(_,i)=>i<s.before[1]-1?'full':'empty')};arenaBase(c,py,null,{bar:1-seg(t,0,O.end)*.8});chips(c,py-6,st2);return;}
@@ -375,13 +402,13 @@ OV.push({id:'plate2',name:'Plate and centre glyph',draw(c,D){const{cx,py}=D,w=28
 /* ============================================================
    UI
    ============================================================ */
-const ELS={bonus:{name:'Bonus shot',vars:V,loop:T.loop,frame:bonusFrame,cases:[['hit','Hit'],['clash','Clash'],['enemy','Enemy bonus']]},
+const ELS={bonus:{name:'Bonus shot',vars:V,loop:T.loop,frame:bonusFrame,cases:[['pair','Pair'],['hit','Hit'],['clash','Clash'],['enemy','Enemy bonus']]},
   outcome:{name:'Fight outcome',vars:OV,loop:O.loop,frame:outcomeFrame,cases:[['held','Held'],['lost','City lost'],['take','We capture'],['repel','Repelled'],['bounce','Both retreat']]}};
-const st={el:'bonus',n:2,v:[0,1,2,3],sc:'hit',hue:'green',src:'any',gray:false,rg:false,t:0,play:true,spd:1};
+const st={el:'bonus',n:2,v:[0,1,2,3],sc:'pair',src:'any',gray:false,rg:false,t:0,play:true,spd:1};
 const $=id=>document.getElementById(id);
 function seg_(host,name,items,cur,on){host.innerHTML='';items.forEach(([val,label])=>{const l=document.createElement('label');const i=document.createElement('input');i.type='radio';i.name=name;i.value=val;i.checked=String(val)===String(cur);i.onchange=()=>on(val);const s=document.createElement('span');s.textContent=label;l.append(i,s);host.append(l);});}
-function readHash(){const h=new URLSearchParams(location.hash.slice(1));if(h.get('el')&&ELS[h.get('el')])st.el=h.get('el');if(h.get('n'))st.n=h.get('n')==='all'?'all':+h.get('n');if(h.get('v'))st.v=h.get('v').split(',').map(Number);if(h.get('sc'))st.sc=h.get('sc');if(h.get('hue'))st.hue=h.get('hue');if(h.get('src'))st.src=h.get('src');if(h.get('t'))st.t=+h.get('t');if(h.get('pause')){st.play=false;}}
-function writeHash(){const h=new URLSearchParams({el:st.el,n:st.n,v:st.v.join(','),sc:st.sc,hue:st.hue,src:st.src});history.replaceState(null,'','#'+h);}
+function readHash(){const h=new URLSearchParams(location.hash.slice(1));if(h.get('el')&&ELS[h.get('el')])st.el=h.get('el');if(h.get('n'))st.n=h.get('n')==='all'?'all':+h.get('n');if(h.get('v'))st.v=h.get('v').split(',').map(Number);if(h.get('sc'))st.sc=h.get('sc');if(h.get('src'))st.src=h.get('src');if(h.get('t'))st.t=+h.get('t');if(h.get('pause')){st.play=false;}}
+function writeHash(){const h=new URLSearchParams({el:st.el,n:st.n,v:st.v.join(','),sc:st.sc,src:st.src});history.replaceState(null,'','#'+h);}
 let panes=[];
 function build(){
   const E=ELS[st.el];if(!E.cases.some(x=>x[0]===st.sc))st.sc=E.cases[0][0];
@@ -389,9 +416,8 @@ function build(){
   seg_($('cmp'),'cmp',[[1,'1'],[2,'2'],[3,'3'],[4,'4'],['all','All']],st.n,v=>{st.n=v==='all'?'all':+v;build();});
   seg_($('sc'),'sc',E.cases,st.sc,v=>{st.sc=v;writeHash();});
   seg_($('var'),'var',E.vars.map((v,i)=>[i,i===0?'Current':i+' '+v.name]),st.v[0],v=>{st.v[0]=+v;build();});
-  seg_($('hue'),'hue',[['green','Green'],['violet','Violet'],['white','White']],st.hue,v=>{st.hue=v;writeHash();});
   seg_($('src'),'src',[['any','Any'],['terrain','Terrain'],['plan','Plan'],['bunker','Bunker']],st.src,v=>{st.src=v;writeHash();});
-  $('f-hue').hidden=$('f-src').hidden=st.el!=='bonus';
+  $('f-src').hidden=st.el!=='bonus';
   const host=$('panes');host.innerHTML='';host.className=st.n==='all'?'all':'n'+st.n;
   const count=st.n==='all'?E.vars.length:st.n;panes=[];
   for(let i=0;i<count;i++){const vi=st.n==='all'?i:((st.v[i]??(st.v[0]+i))%E.vars.length);if(st.n!=='all')st.v[i]=vi;
